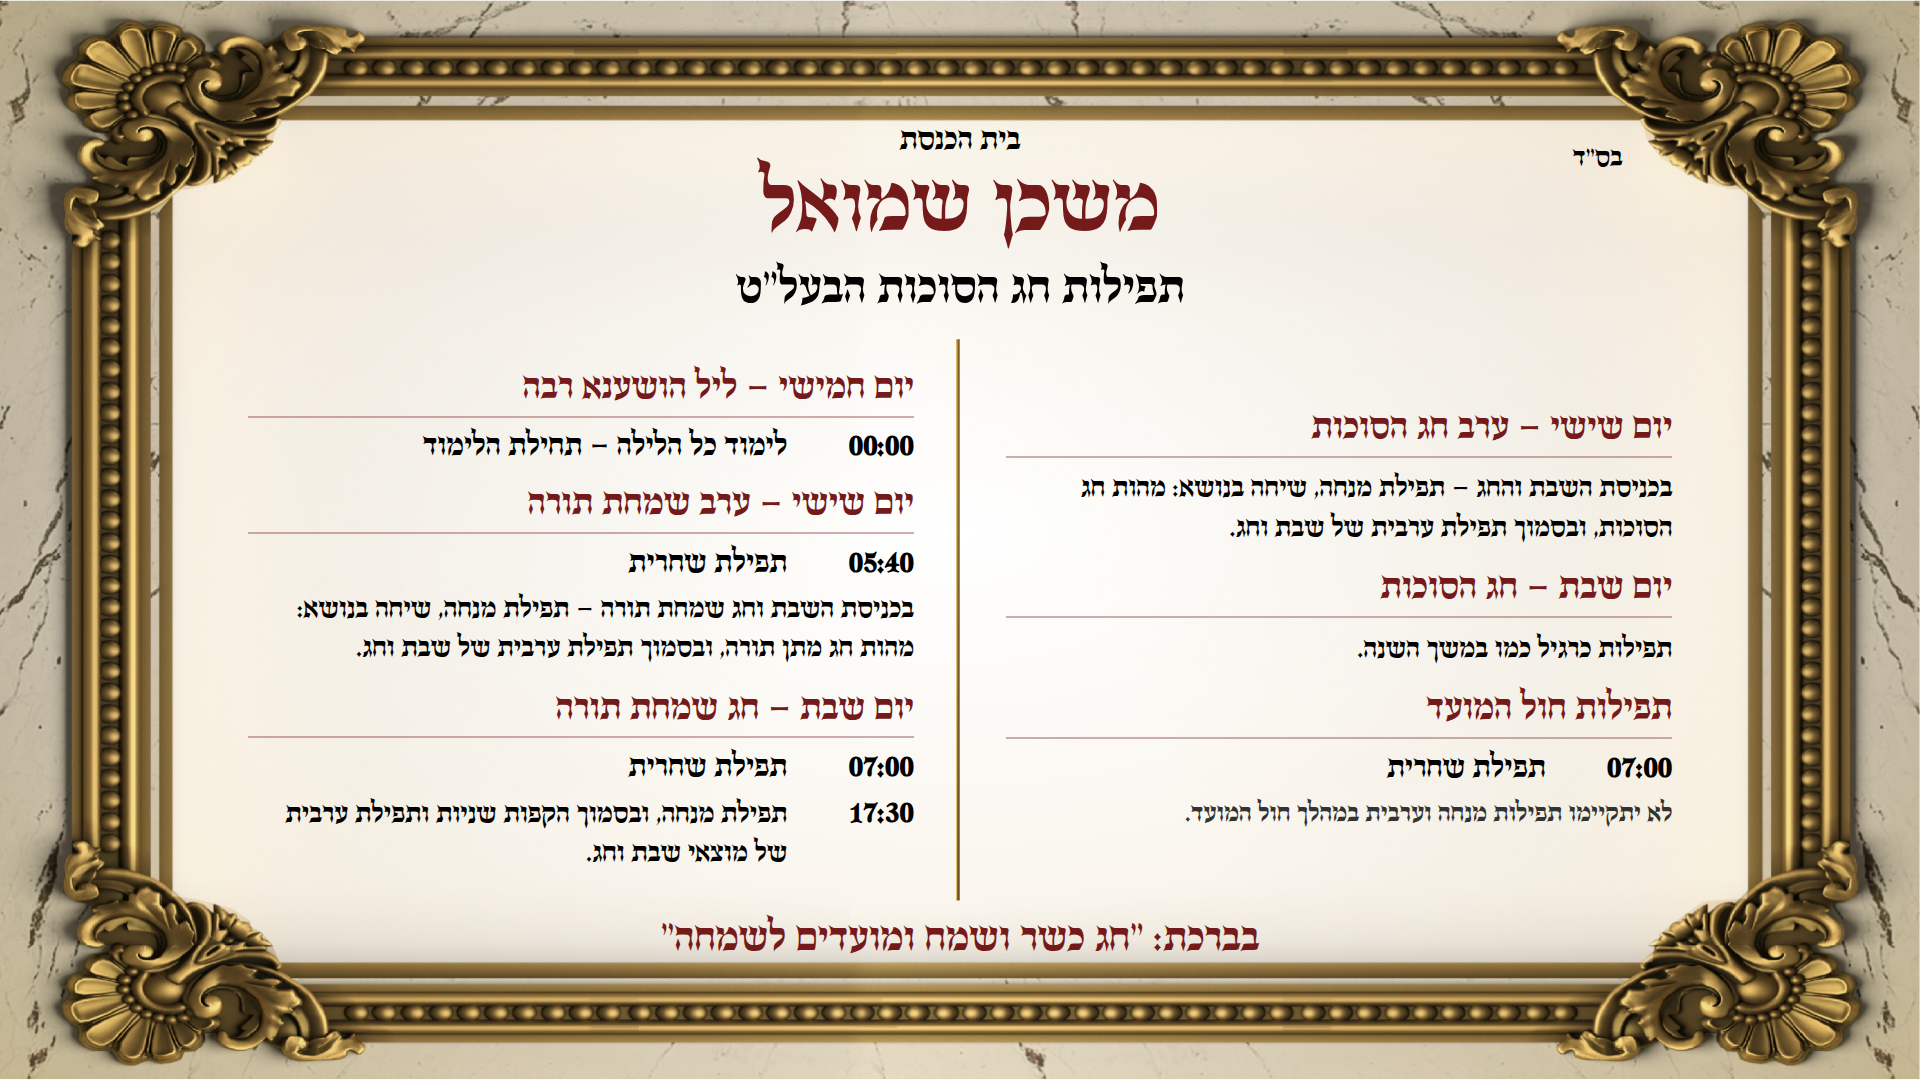
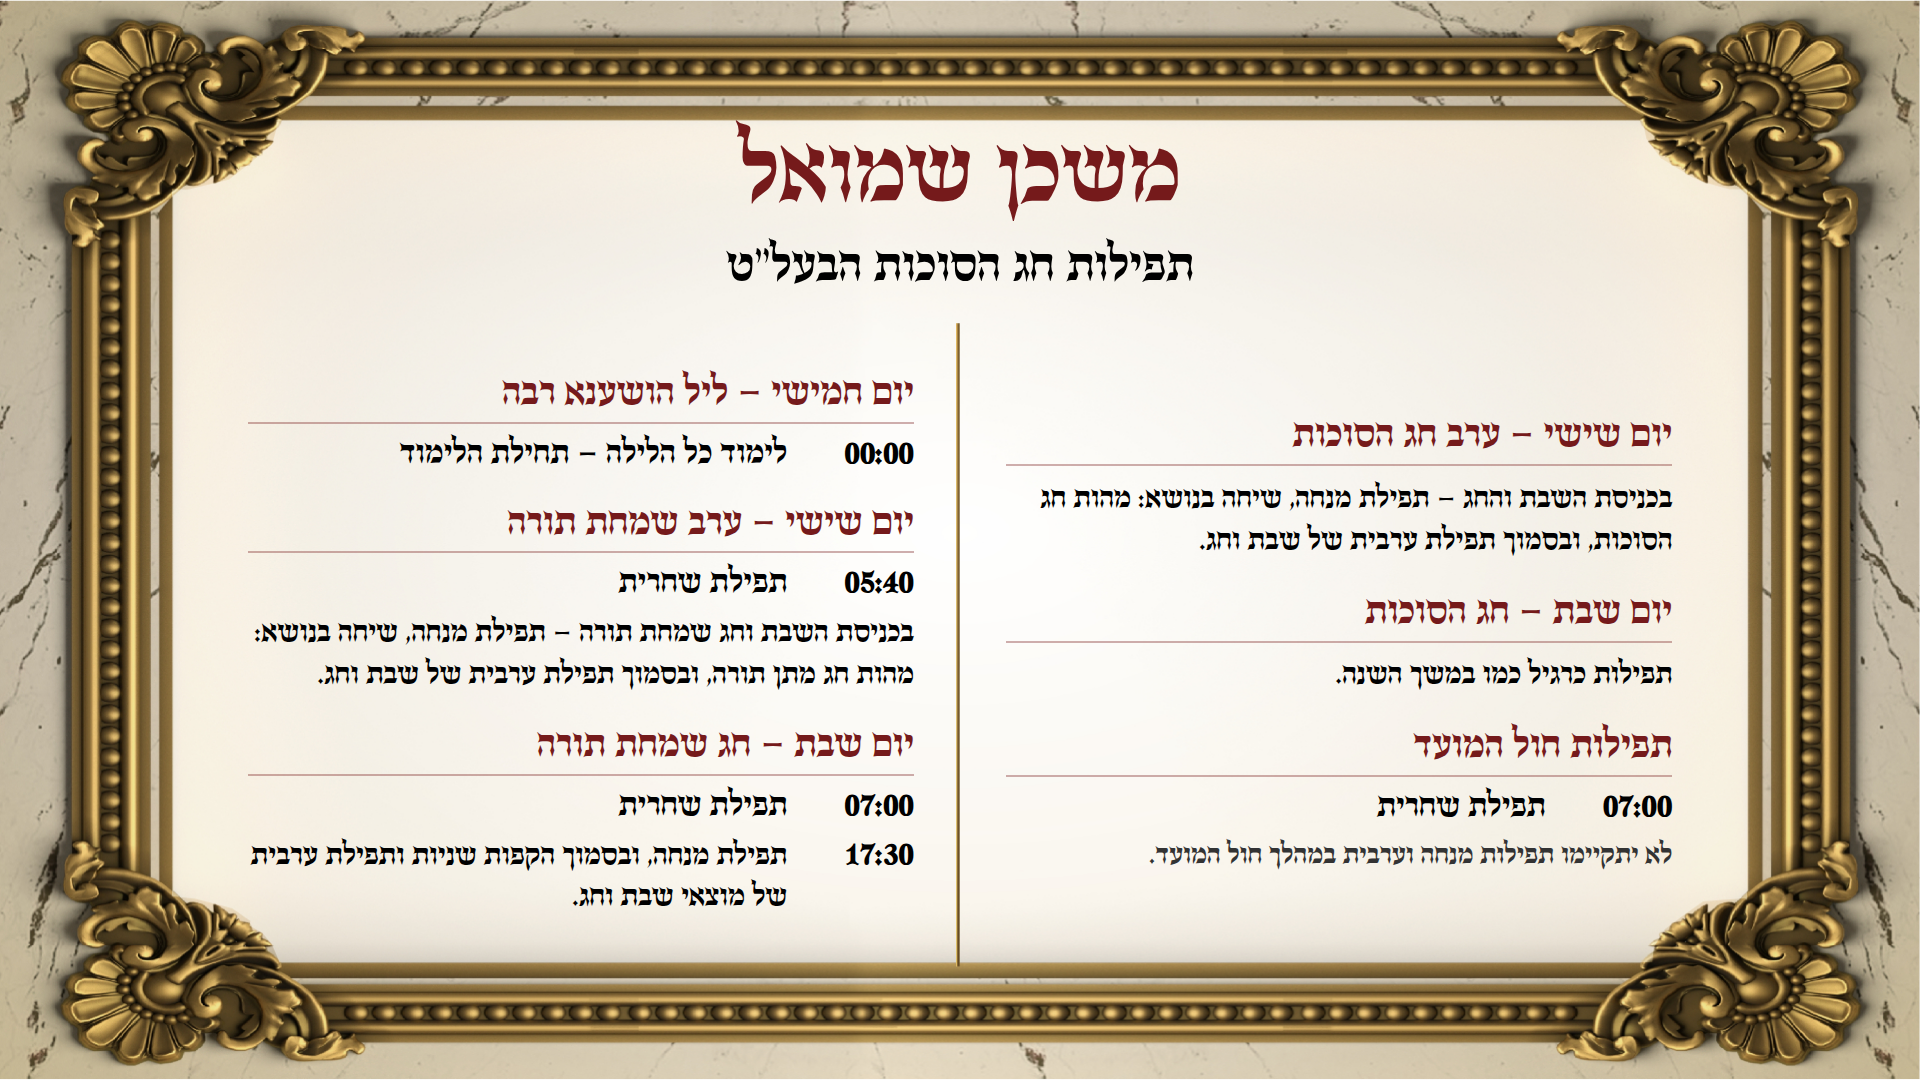
Sukkot poster: drop בס״ד, pre-title and blessing; enlarge text into freed space
Claude-Session: https://claude.ai/code/session_01GxNQELvDXut78CycooGX3U

diff --git a/posters/sukkot-5787.html b/posters/sukkot-5787.html
@@ -41,17 +41,10 @@
     position: relative;
     width: 100%;
     height: 100%;
-    padding: 9vh 9vw 11vh;
+    padding: 9vh 9vw 10.5vh;
     display: flex;
     flex-direction: column;
     align-items: center;
-  }
-
-  #bsd {
-    position: absolute;
-    top: 13.2vh;
-    right: 15.5vw;
-    font-size: 2.8vh;
   }
 
   /* ── Header ── */
@@ -59,19 +52,17 @@
     display: flex;
     flex-direction: column;
     align-items: center;
-    margin-top: 2.4vh;
+    margin-top: 2.2vh;
   }
 
-  #pre-title { font-size: 3.2vh; }
-
   #title {
-    font-size: 8.6vh;
+    font-size: 9.5vh;
     margin-top: 0.2vh;
   }
 
   #subtitle {
-    font-size: 4.8vh;
-    margin-top: 1vh;
+    font-size: 5vh;
+    margin-top: 1.2vh;
   }
 
   /* ── Two columns separated by the kiosk's gold rule (line.png) ── */
@@ -80,7 +71,7 @@
     width: 100%;
     display: flex;
     flex-direction: row;
-    margin-top: 2.2vh;
+    margin-top: 2.8vh;
     padding: 0 1.5vw;
   }
 
@@ -89,7 +80,7 @@
     display: flex;
     flex-direction: column;
     justify-content: center;
-    gap: 1.8vh;
+    gap: 2.6vh;
     padding: 0 2.4vw;
   }
 
@@ -103,7 +94,7 @@
   .section { display: flex; flex-direction: column; gap: 0.9vh; }
 
   .day {
-    font-size: 3.8vh;
+    font-size: 4vh;
     padding-bottom: 0.7vh;
     margin-bottom: 0.2vh;
     border-bottom: 2px solid rgba(117, 26, 27, 0.35);
@@ -114,7 +105,7 @@
     flex-direction: row;
     align-items: baseline;
     gap: 1.2vw;
-    font-size: 3.2vh;
+    font-size: 3.4vh;
   }
 
   .time {
@@ -125,31 +116,22 @@
   }
 
   .text {
-    font-size: 2.9vh;
+    font-size: 3.1vh;
     line-height: 1.25;
   }
 
   .note {
-    font-size: 2.7vh;
+    font-size: 2.9vh;
     line-height: 1.3;
     color: #333;
   }
 
-  /* ── Footer blessing ── */
-  #blessing {
-    margin-top: 1.4vh;
-    font-size: 4.2vh;
-    text-align: center;
-  }
 </style>
 </head>
 <body>
 <div id="poster">
 
-  <span id="bsd">בס״ד</span>
-
   <div id="header">
-    <span id="pre-title">בית הכנסת</span>
     <span id="title" class="red">משכן שמואל</span>
     <span id="subtitle">תפילות חג הסוכות הבעל״ט</span>
   </div>
@@ -196,8 +178,6 @@
     </div>
 
   </div>
-
-  <span id="blessing" class="red">בברכת: ״חג כשר ושמח ומועדים לשמחה״</span>
 
 </div>
 </body>
